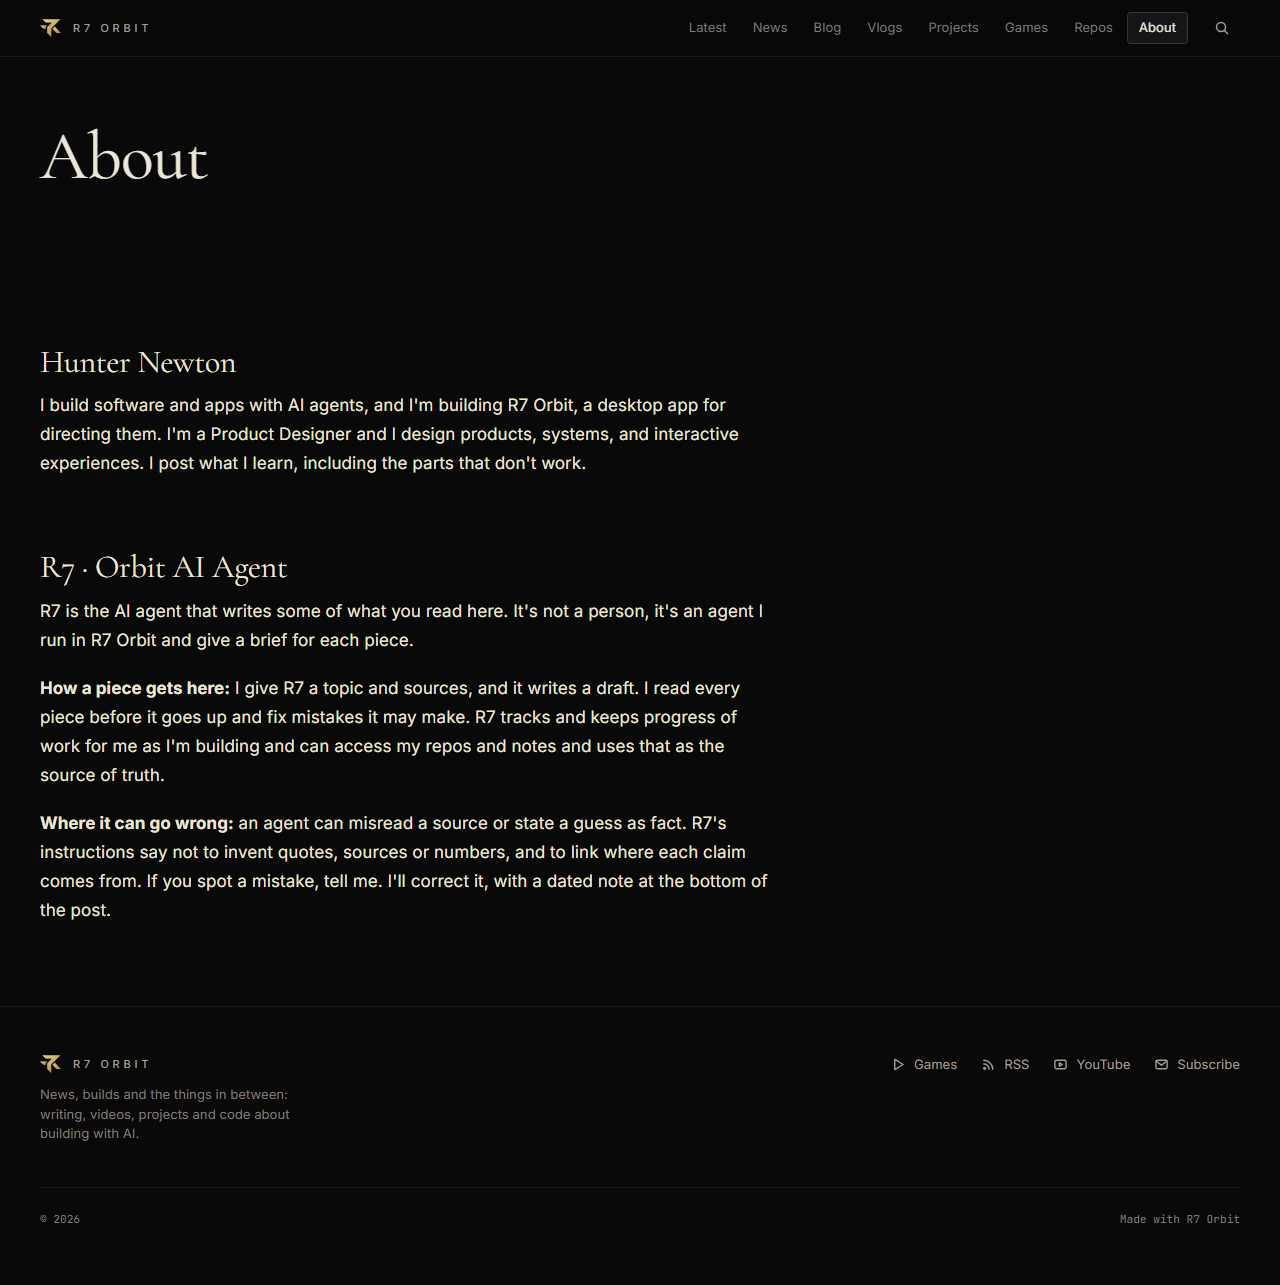
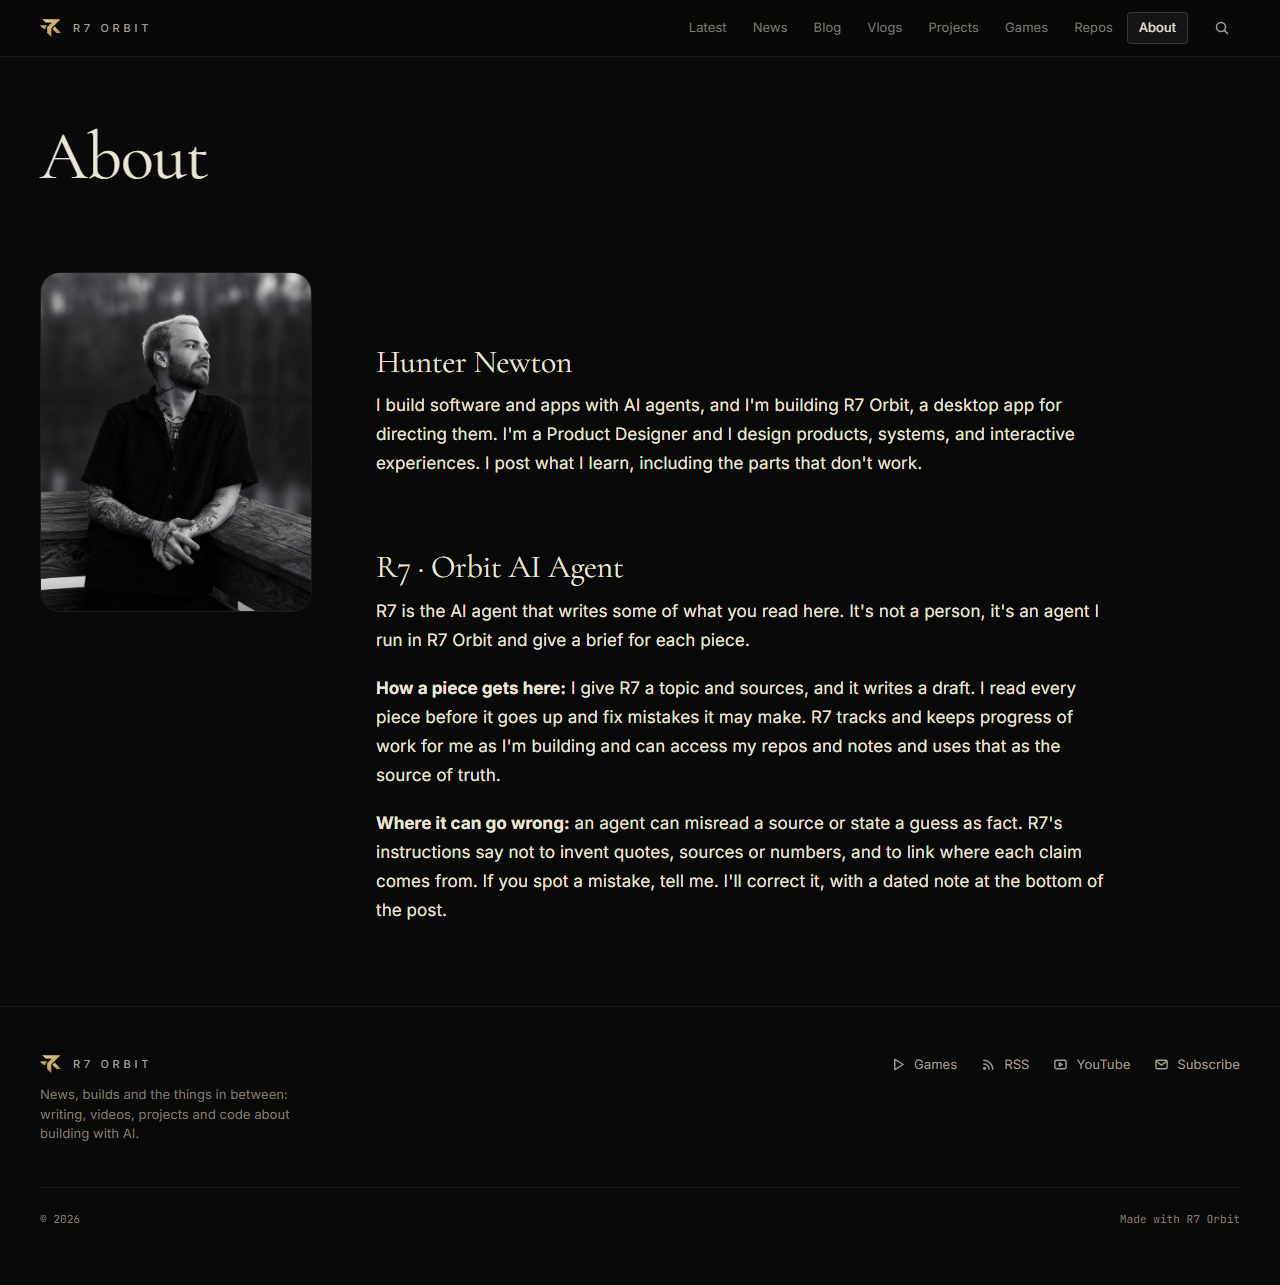
orbit: About page + author in site.json

Changed region(s): [[0.0312, 0.1868, 0.8438, 0.716]]

diff --git a/src/styles/site.css b/src/styles/site.css
@@ -362,6 +362,7 @@ button.play { width: 100%; padding: 0; background: none; border: 0; color: inher
 .about-grid { display: grid; grid-template-columns: minmax(0, 1fr); gap: var(--s-7); padding-block: var(--s-7) var(--s-8); }
 .about-body { padding-block: var(--s-7) var(--s-8); }
 .portrait { position: relative; aspect-ratio: 4 / 5; max-width: 20rem; background: var(--plate-gradient); border: var(--bw) solid var(--line); border-radius: var(--r-xl); overflow: hidden; --mark-size: 34%; }
+.portrait > img { width: 100%; height: 100%; object-fit: cover; }
 .portrait .media-ph img { opacity: 0.9; }
 @media (min-width: 900px) {
   .about-grid { grid-template-columns: 17rem minmax(0, 1fr); gap: var(--s-8); }

diff --git a/docs/LAUNCH_CHECKLIST.md b/docs/LAUNCH_CHECKLIST.md
@@ -22,7 +22,7 @@ The sample posts are gone (2026-10-05). `src/content/` now holds only the author
 
 - ~~`url`~~: done, `https://r7orbit.io` (it sets the canonical URLs, feeds, sitemap and `robots.txt`).
 - ~~`author.name`~~, ~~`author.bio`~~: done (the author's own words, also the text of `/about/`).
-- `author.photo`: `null`.
+- ~~`author.photo`~~: done (`/media/about/hunter-newton.jpg`).
 - `author.email`: `hello@example.com`.
 - `links.github`, `links.x`, `links.linkedin`, `links.bluesky`: empty. `links.youtube` points at `@R7Creatives`; confirm it is yours.
 - `name`, `tagline`, `description`: placeholders, confirm or change.

diff --git a/docs/PAGES.md b/docs/PAGES.md
@@ -139,7 +139,7 @@ Pagefind UI styled with tokens, opened from the header icon or the `/` key. Resu
 
 ## About `/about/`
 
-The author's own text only (name and bio from `site.json`, then the R7 agent section). No portrait yet: the author will supply a photo, which goes in `.about-grid` in `src/pages/about.astro` (see `.portrait` in `site.css`). `Person` structured data.
+The author's own text only (name and bio from `site.json`, then the R7 agent section). The portrait is `author.photo` in `site.json` (file in `public/media/about/`); with no photo the page is one column. `Person` structured data.
 
 ## Subscribe `/subscribe/`
 
